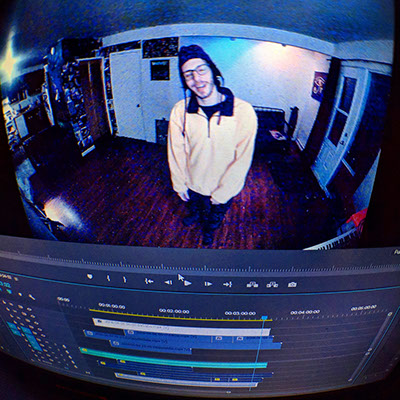
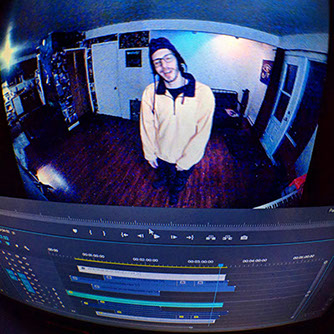
Up172

diff --git a/css/me.css b/css/me.css
@@ -1,1 +1,1 @@
-.version.me{color:#0000FF;background-color:#B2538E;}#page{z-index:1;min-height:413px;background-image:none;border-width:0px;border-color:#000000;background-color:#000000;padding-top:25px;padding-bottom:62px;width:100%;max-width:960px;margin-left:auto;margin-right:auto;}#u6030{z-index:2;position:relative;width:68.55%;margin-left:15.73%;}#u3299{z-index:3;position:relative;margin-right:-10000px;width:100%;}#menuu6528{z-index:5;margin-top:8px;position:relative;width:25.94%;margin-left:46.88%;}#u6529{min-height:34px;position:relative;margin-right:-10000px;width:32.54%;}#u6530{padding-bottom:17px;position:relative;width:100%;}#u6530:hover{min-height:0px;width:100%;margin:0px 0px 0px 0%;}#u6530:active{min-height:0px;width:100%;margin:0px 0px 0px 0%;}#u6532-4{min-height:17px;position:relative;margin-right:-10000px;top:8px;width:100%;}#u6530:hover #u6532-4{padding-top:0px;padding-bottom:0px;min-height:17px;width:100%;margin:0px -10000px 0px 0%;}#u6530:active #u6532-4{padding-top:0px;padding-bottom:0px;min-height:17px;width:100%;margin:0px -10000px 0px 0%;}#u6598{min-height:34px;position:relative;margin-right:-10000px;width:32.94%;left:33.34%;}#u6599{padding-bottom:17px;position:relative;width:100%;}#u6530.MuseMenuActive,#u6599:hover{min-height:0px;width:100%;margin:0px 0px 0px 0%;}#u6599:active{min-height:0px;width:100%;margin:0px 0px 0px 0%;}#u6602-4{min-height:17px;position:relative;margin-right:-10000px;top:8px;width:100%;}#u6530.MuseMenuActive #u6532-4,#u6599:hover #u6602-4{padding-top:0px;padding-bottom:0px;min-height:17px;width:100%;margin:0px -10000px 0px 0%;}#u6599:active #u6602-4{padding-top:0px;padding-bottom:0px;min-height:17px;width:100%;margin:0px -10000px 0px 0%;}#u6619{min-height:34px;position:relative;margin-right:-10000px;width:32.94%;left:67.07%;}#u6622{padding-bottom:17px;position:relative;width:100%;}#u6599.MuseMenuActive,#u6622:hover{min-height:0px;width:100%;margin:0px 0px 0px 0%;}#u6622:active{min-height:0px;width:100%;margin:0px 0px 0px 0%;}#u6622.MuseMenuActive{min-height:0px;width:100%;margin:0px 0px 0px 0%;}#u6624-4{min-height:17px;position:relative;margin-right:-10000px;top:8px;width:100%;}#u6599.MuseMenuActive #u6602-4,#u6622:hover #u6624-4{padding-top:0px;padding-bottom:0px;min-height:17px;width:100%;margin:0px -10000px 0px 0%;}#u6622:active #u6624-4{padding-top:0px;padding-bottom:0px;min-height:17px;width:100%;margin:0px -10000px 0px 0%;}#u6622.MuseMenuActive #u6624-4{padding-top:0px;padding-bottom:0px;min-height:17px;width:100%;margin:0px -10000px 0px 0%;}#pu8408{z-index:25;margin-top:56px;width:68.86%;margin-left:15.53%;}#u8408{z-index:25;background-color:transparent;position:relative;margin-right:-10000px;margin-top:54px;width:60.52%;left:19.67%;}#u8421-5{z-index:59;min-height:87px;background-color:transparent;color:#FFDA00;line-height:29px;font-size:24px;text-align:center;letter-spacing:1px;position:relative;margin-right:-10000px;width:100%;}#u8418-32{z-index:27;min-height:770px;background-color:transparent;color:#FFDA00;line-height:29px;font-size:24px;text-align:left;letter-spacing:1px;margin-top:66px;position:relative;width:68.86%;margin-left:15.53%;}#u7476{z-index:24;min-height:1514px;border-width:0px;border-color:transparent;background-color:transparent;margin-top:8px;position:relative;width:68.86%;margin-left:15.53%;}.css_verticalspacer .verticalspacer{height:calc(100vh - 3069px);}#muse_css_mq,.html{background-color:#FFFFFF;}body{position:relative;min-width:320px;}#u8408_img,#u3299_img{width:100%;}
+.version.me{color:#000013;background-color:#C0BFE3;}#page{z-index:1;min-height:413px;background-image:none;border-width:0px;border-color:#000000;background-color:#000000;padding-top:25px;padding-bottom:62px;width:100%;max-width:960px;margin-left:auto;margin-right:auto;}#u6030{z-index:2;position:relative;width:68.55%;margin-left:15.73%;}#u3299{z-index:3;position:relative;margin-right:-10000px;width:100%;}#menuu6528{z-index:5;margin-top:8px;position:relative;width:25.94%;margin-left:46.88%;}#u6529{min-height:34px;position:relative;margin-right:-10000px;width:32.54%;}#u6530{padding-bottom:17px;position:relative;width:100%;}#u6530:hover{min-height:0px;width:100%;margin:0px 0px 0px 0%;}#u6530:active{min-height:0px;width:100%;margin:0px 0px 0px 0%;}#u6532-4{min-height:17px;position:relative;margin-right:-10000px;top:8px;width:100%;}#u6530:hover #u6532-4{padding-top:0px;padding-bottom:0px;min-height:17px;width:100%;margin:0px -10000px 0px 0%;}#u6530:active #u6532-4{padding-top:0px;padding-bottom:0px;min-height:17px;width:100%;margin:0px -10000px 0px 0%;}#u6598{min-height:34px;position:relative;margin-right:-10000px;width:32.94%;left:33.34%;}#u6599{padding-bottom:17px;position:relative;width:100%;}#u6530.MuseMenuActive,#u6599:hover{min-height:0px;width:100%;margin:0px 0px 0px 0%;}#u6599:active{min-height:0px;width:100%;margin:0px 0px 0px 0%;}#u6602-4{min-height:17px;position:relative;margin-right:-10000px;top:8px;width:100%;}#u6530.MuseMenuActive #u6532-4,#u6599:hover #u6602-4{padding-top:0px;padding-bottom:0px;min-height:17px;width:100%;margin:0px -10000px 0px 0%;}#u6599:active #u6602-4{padding-top:0px;padding-bottom:0px;min-height:17px;width:100%;margin:0px -10000px 0px 0%;}#u6619{min-height:34px;position:relative;margin-right:-10000px;width:32.94%;left:67.07%;}#u6622{padding-bottom:17px;position:relative;width:100%;}#u6599.MuseMenuActive,#u6622:hover{min-height:0px;width:100%;margin:0px 0px 0px 0%;}#u6622:active{min-height:0px;width:100%;margin:0px 0px 0px 0%;}#u6622.MuseMenuActive{min-height:0px;width:100%;margin:0px 0px 0px 0%;}#u6624-4{min-height:17px;position:relative;margin-right:-10000px;top:8px;width:100%;}#u6599.MuseMenuActive #u6602-4,#u6622:hover #u6624-4{padding-top:0px;padding-bottom:0px;min-height:17px;width:100%;margin:0px -10000px 0px 0%;}#u6622:active #u6624-4{padding-top:0px;padding-bottom:0px;min-height:17px;width:100%;margin:0px -10000px 0px 0%;}#u6622.MuseMenuActive #u6624-4{padding-top:0px;padding-bottom:0px;min-height:17px;width:100%;margin:0px -10000px 0px 0%;}#pu8408{z-index:25;margin-top:64px;width:68.86%;margin-left:15.53%;}#u8408{z-index:25;background-color:transparent;position:relative;margin-right:-10000px;margin-top:49px;width:50.53%;left:24.82%;}#u8421-5{z-index:54;min-height:87px;background-color:transparent;line-height:29px;color:#FFDA00;font-size:24px;text-align:center;letter-spacing:1px;position:relative;margin-right:-10000px;width:100%;}#u8418-27{z-index:27;min-height:593px;background-color:transparent;line-height:29px;color:#FFDA00;font-size:24px;text-align:left;letter-spacing:1px;margin-top:63px;position:relative;width:68.86%;margin-left:15.53%;}#u7476{z-index:24;min-height:1514px;border-width:0px;border-color:transparent;background-color:transparent;margin-top:101px;position:relative;width:68.86%;margin-left:15.53%;}.css_verticalspacer .verticalspacer{height:calc(100vh - 2919px);}#muse_css_mq,.html{background-color:#FFFFFF;}body{position:relative;min-width:320px;}#u8408_img,#u3299_img{width:100%;}

diff --git a/me.html b/me.html
@@ -19,7 +19,7 @@ if(typeof Muse == "undefined") window.Muse = {}; window.Muse.assets = {"required
   <!-- CSS -->
   <link rel="stylesheet" type="text/css" href="css/site_global.css?crc=444006867"/>
   <link rel="stylesheet" type="text/css" href="css/master_a-master.css?crc=121541116"/>
-  <link rel="stylesheet" type="text/css" href="css/me.css?crc=4289876878" id="pagesheet"/>
+  <link rel="stylesheet" type="text/css" href="css/me.css?crc=331399139" id="pagesheet"/>
   <!-- JS includes -->
   <!--[if lt IE 9]>
   <script src="scripts/html5shiv.js?crc=4241844378" type="text/javascript"></script>
@@ -56,24 +56,22 @@ if(typeof Muse == "undefined") window.Muse = {}; window.Muse.assets = {"required
    </nav>
    <div class="clearfix colelem" id="pu8408"><!-- group -->
     <div class="clip_frame grpelem" id="u8408"><!-- image -->
-     <img class="block" id="u8408_img" src="images/thumbnailsuper.jpg?crc=299756396" alt="" data-heightwidthratio="1" data-image-width="400" data-image-height="400"/>
+     <img class="block" id="u8408_img" src="images/thumbnailsuper.jpg?crc=4024076299" alt="" data-heightwidthratio="1" data-image-width="334" data-image-height="334"/>
     </div>
     <div class="clearfix grpelem" id="u8421-5" data-muse-temp-textContainer-sizePolicy="true" data-muse-temp-textContainer-pinning="true"><!-- content -->
-     <p>Hi!</p>
+     <p>Hi !</p>
      <p>&nbsp;</p>
     </div>
    </div>
-   <div class="clearfix colelem" id="u8418-32" data-muse-temp-textContainer-sizePolicy="true" data-muse-temp-textContainer-pinning="true"><!-- content -->
-    <p>Welcome to my website,<br/><br/>I hope you love it !!</p>
-    <p>&nbsp;</p>
-    <p>I'm creating this to give something back for all I've learned over the years.<br/><br/></p>
-    <p>I was a addicted computer gamer studying computer science dealing with constant back pain and life was really horrible to live.<br/><br/>Figuring out how to live my life happily I've been led to HIPHOP. How I could finally fix my physical pain by simply having fun breakdancin and also, thanks to KRS-ONE, I discovered how amazing an Emcee can be.<br/><br/>Now my life is evolving for the best. <br/>My Deejayin skill evolve,<br/>my Emceein skill evolve,</p>
-    <p>my Breakdancin skill evolve.<br/><br/>&nbsp;As long as I keep focused on growing as a HIPHOP being, Life is great.<br/><br/>:D</p>
+   <div class="clearfix colelem" id="u8418-27" data-muse-temp-textContainer-sizePolicy="true" data-muse-temp-textContainer-pinning="true"><!-- content -->
+    <p>Welcome to my website !!<br/><br/></p>
+    <p>&nbsp;A while ago, I was a computer gamer studying computer science dealing with constant back pain and life was quite painful to live.<br/><br/>&nbsp;Trying to improve my quality of life, I've been led toward the HIPHOP culture. I finally fixed my body by simply having fun breakdancin, and thanks to KRS-ONE, I discovered how amazing the skill of Emceein can be.<br/><br/>Now my life is evolving for the best.<br/><br/></p>
+    <p>And I love music.<br/><br/>Life is great.<br/><br/>Peace<br/><br/>:D</p>
    </div>
    <div class="colelem" id="u7476"><!-- custom html -->
     <div id="pixlee_container"></div><script type="text/javascript">window.PixleeAsyncInit = function() {Pixlee.init({apiKey:'drAkH3oLbR7docZYyZH'});Pixlee.addSimpleWidget({widgetId:'3154'});};</script><script src="//instafeed.assets.pixlee.com/assets/pixlee_widget_1_0_0.js"></script>
    </div>
-   <div class="verticalspacer" data-offset-top="3008" data-content-above-spacer="3008" data-content-below-spacer="61" data-sizePolicy="fixed" data-pintopage="page_fixedLeft"></div>
+   <div class="verticalspacer" data-offset-top="2858" data-content-above-spacer="2858" data-content-below-spacer="61" data-sizePolicy="fixed" data-pintopage="page_fixedLeft"></div>
   </div>
   <!-- Other scripts -->
   <script type="text/javascript">

diff --git a/index.html b/index.html
@@ -59,7 +59,7 @@ if(typeof Muse == "undefined") window.Muse = {}; window.Muse.assets = {"required
    <div class="size_fluid_width_height colelem" id="u8156" data-pintopage="page_fluidx" data-sizePolicy="fluidWidthHeight"><!-- custom html -->
     <div class="fluid_height_spacer"></div>
     
-<iframe class="actAsDiv" style="width:100%;height:100%;" src="//www.youtube.com/embed/_zww-Vetv7Y?autoplay=0&loop=0&showinfo=0&theme=dark&color=red&controls=1&modestbranding=0&start=0&fs=1&iv_load_policy=1&wmode=transparent&rel=1" frameborder="0" allowfullscreen></iframe>
+<iframe class="actAsDiv" style="width:100%;height:100%;" src="//www.youtube.com/embed/IP6rT4GZR88?autoplay=0&loop=0&showinfo=0&theme=dark&color=red&controls=1&modestbranding=0&start=0&fs=1&iv_load_policy=1&wmode=transparent&rel=1" frameborder="0" allowfullscreen></iframe>
 
    </div>
    <div class="verticalspacer" data-offset-top="727" data-content-above-spacer="727" data-content-below-spacer="61" data-sizePolicy="fixed" data-pintopage="page_fixedLeft"></div>
